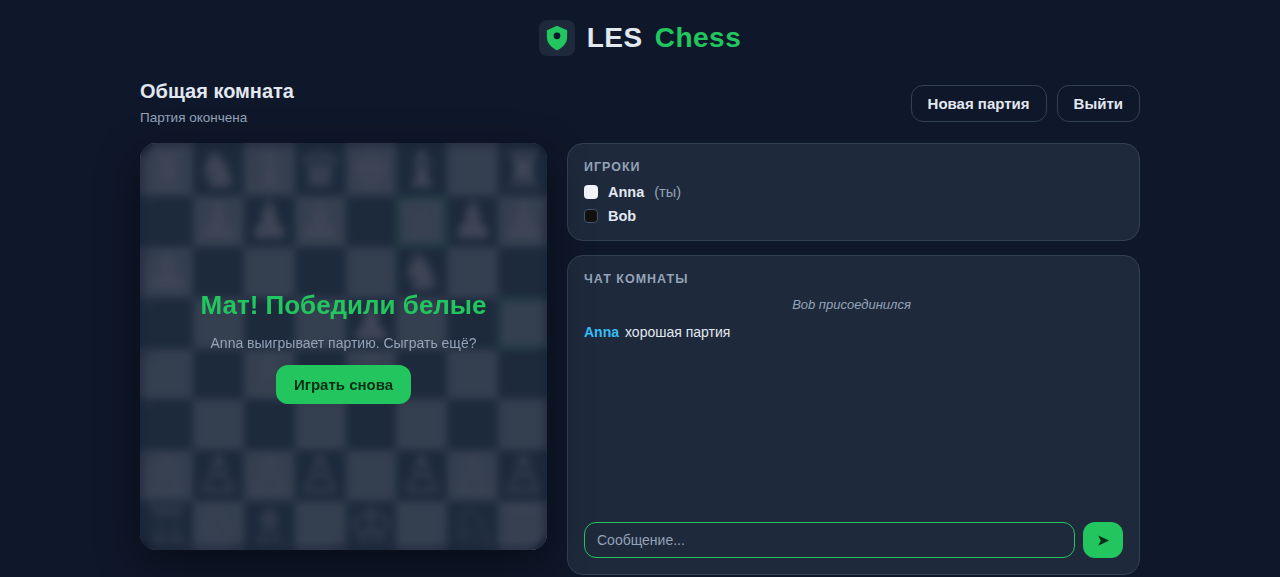
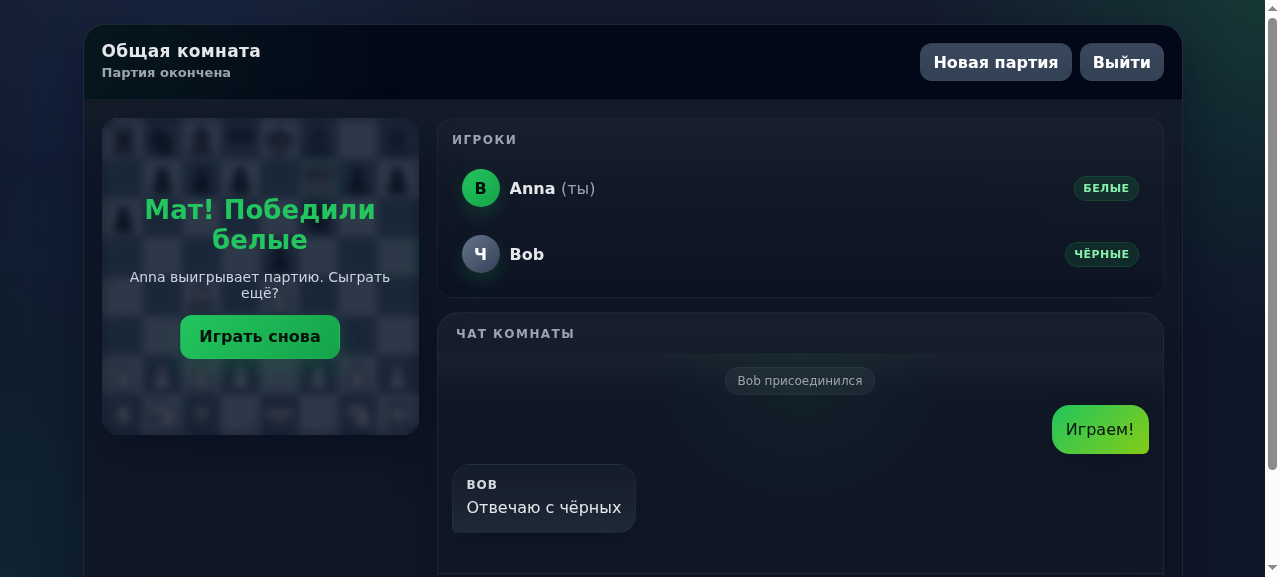
docs: свежие скриншоты — Cburnett-фигуры, мобильная версия
- десктопные скрины пересняты: вход, комната с чатом в процессе
  партии, мат с оверлеем
- добавлены мобильные скрины (390px): комната и мат
- удалён устаревший screenshot_pieces.png (промежуточные иконки)

diff --git a/README.md b/README.md
@@ -67,11 +67,17 @@
 - Экран входа <br>
 ![Auth](screenshots/screenshot_redesign_auth.png)
 
+- Комната с доской и чатом <br>
+![Room](screenshots/screenshot_redesign_room.png)
+
 - Партия, мат и оверлей победы <br>
 ![Checkmate](screenshots/screenshot_checkmate.png)
 
-- Комната с доской и чатом <br>
-![Room](screenshots/screenshot_redesign_room.png)
+- Мобильная версия (390px) <br>
+![Mobile](screenshots/mobile_game.png)
+
+- Мат на телефоне <br>
+![Mobile mate](screenshots/mobile_mate.png)
 
 </details>
 
